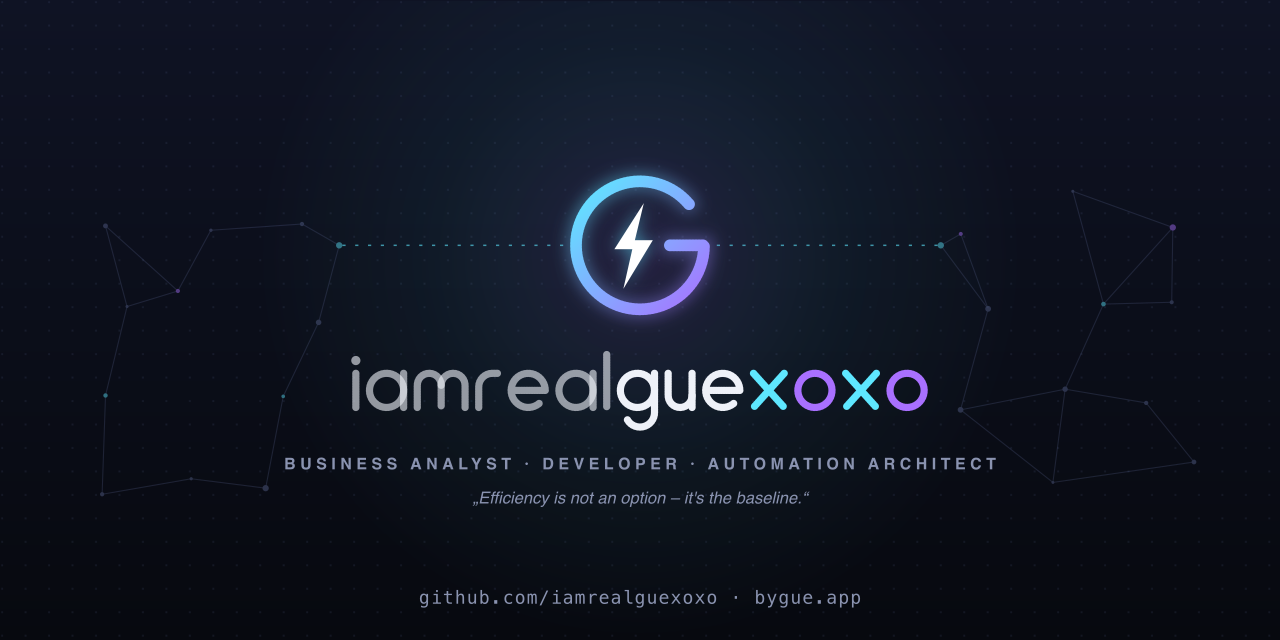
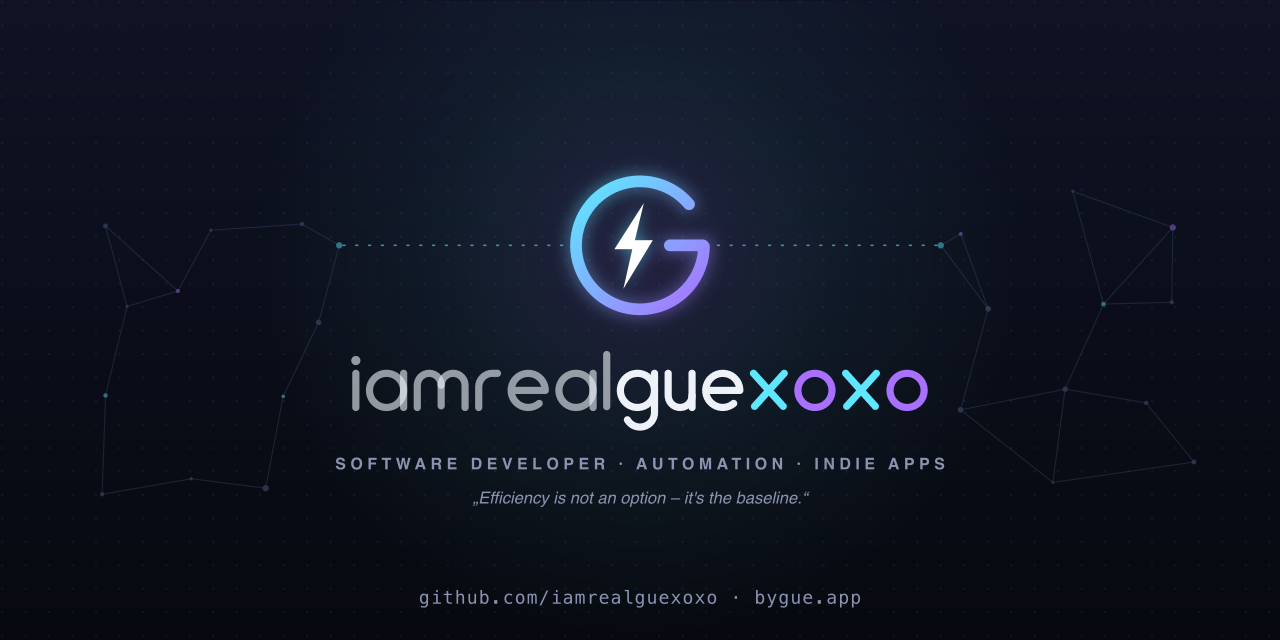
Rolle überall Software Developer (Header, Einleitung, Spielerkarte, Vorschaubild), Logistik-Hinweis raus; Header/Spielerkarte unter neuen Dateinamen gegen den Bild-Cache

Changed region(s): [[0.2188, 0.6875, 0.7812, 0.75]]

diff --git a/README.md b/README.md
@@ -1,14 +1,14 @@
 <p align="center">
   <picture>
-    <source media="(prefers-color-scheme: dark)" srcset="assets/header-dark.svg">
-    <source media="(prefers-color-scheme: light)" srcset="assets/header-light.svg">
-    <img alt="iamrealguexoxo – Business Analyst, Developer, Automation Architect" src="assets/header-dark.svg" width="100%">
+    <source media="(prefers-color-scheme: dark)" srcset="assets/banner-dark.svg">
+    <source media="(prefers-color-scheme: light)" srcset="assets/banner-light.svg">
+    <img alt="iamrealguexoxo – Software Developer" src="assets/banner-dark.svg" width="100%">
   </picture>
 </p>
 
 <p align="center">
   I turn repetitive human suffering <i>(aka Bürokratie)</i> into automations, and spare evenings into apps.<br>
-  Right now: shipping <a href="https://bygue.app"><b>bygue</b></a>, building LLM agents and making warehouse &amp; logistics systems a little smarter.
+  Right now: shipping <a href="https://bygue.app"><b>bygue</b></a> and building LLM agents.
 </p>
 
 <p align="center">
@@ -25,9 +25,9 @@
 
 <p align="center">
   <picture>
-    <source media="(prefers-color-scheme: dark)" srcset="assets/player-dark.svg">
-    <source media="(prefers-color-scheme: light)" srcset="assets/player-light.svg">
-    <img alt="Player card – Gü, Automation Architect, plays World of Warcraft and Star Citizen" src="assets/player-dark.svg" width="100%">
+    <source media="(prefers-color-scheme: dark)" srcset="assets/playercard-dark.svg">
+    <source media="(prefers-color-scheme: light)" srcset="assets/playercard-light.svg">
+    <img alt="Player card – Gü, Software Developer, plays World of Warcraft and Star Citizen" src="assets/playercard-dark.svg" width="100%">
   </picture>
 </p>
 
